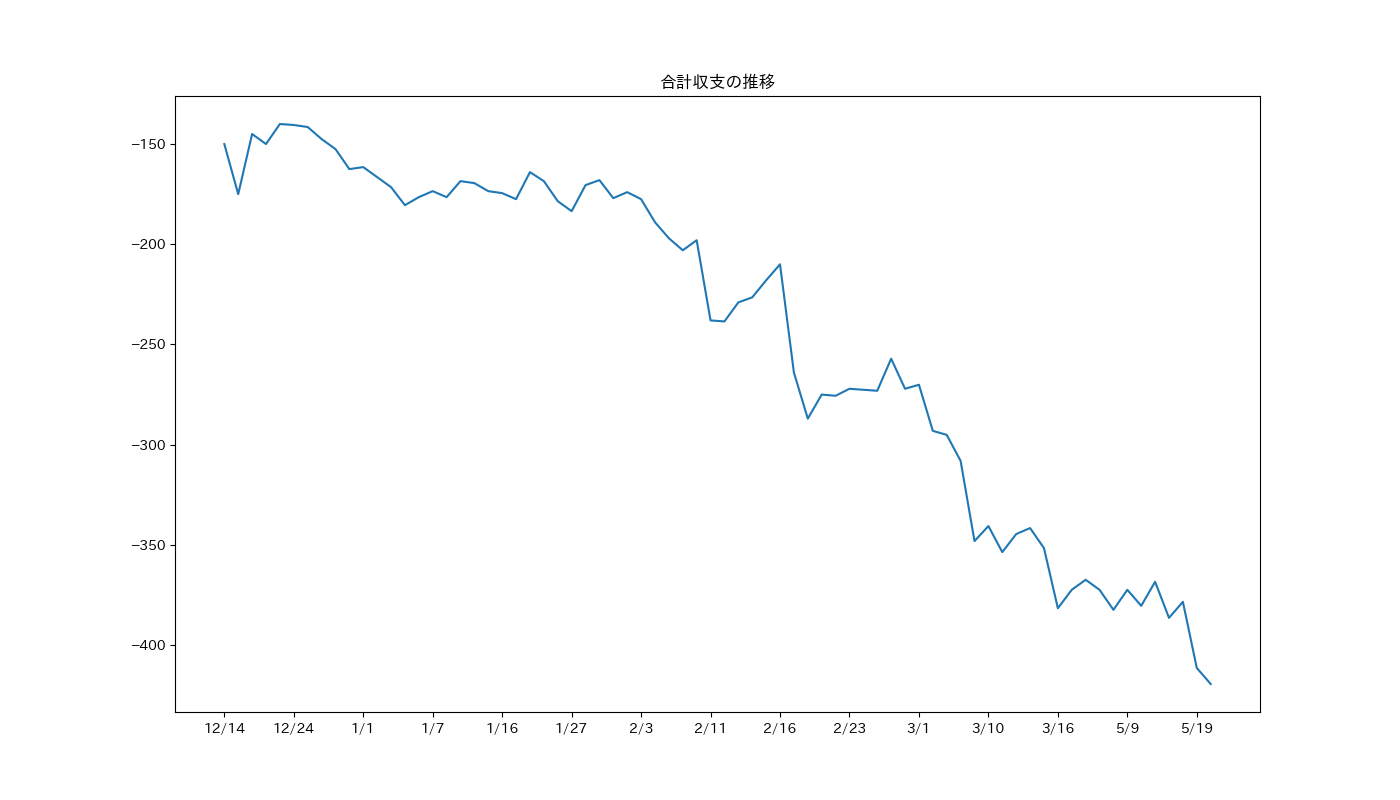
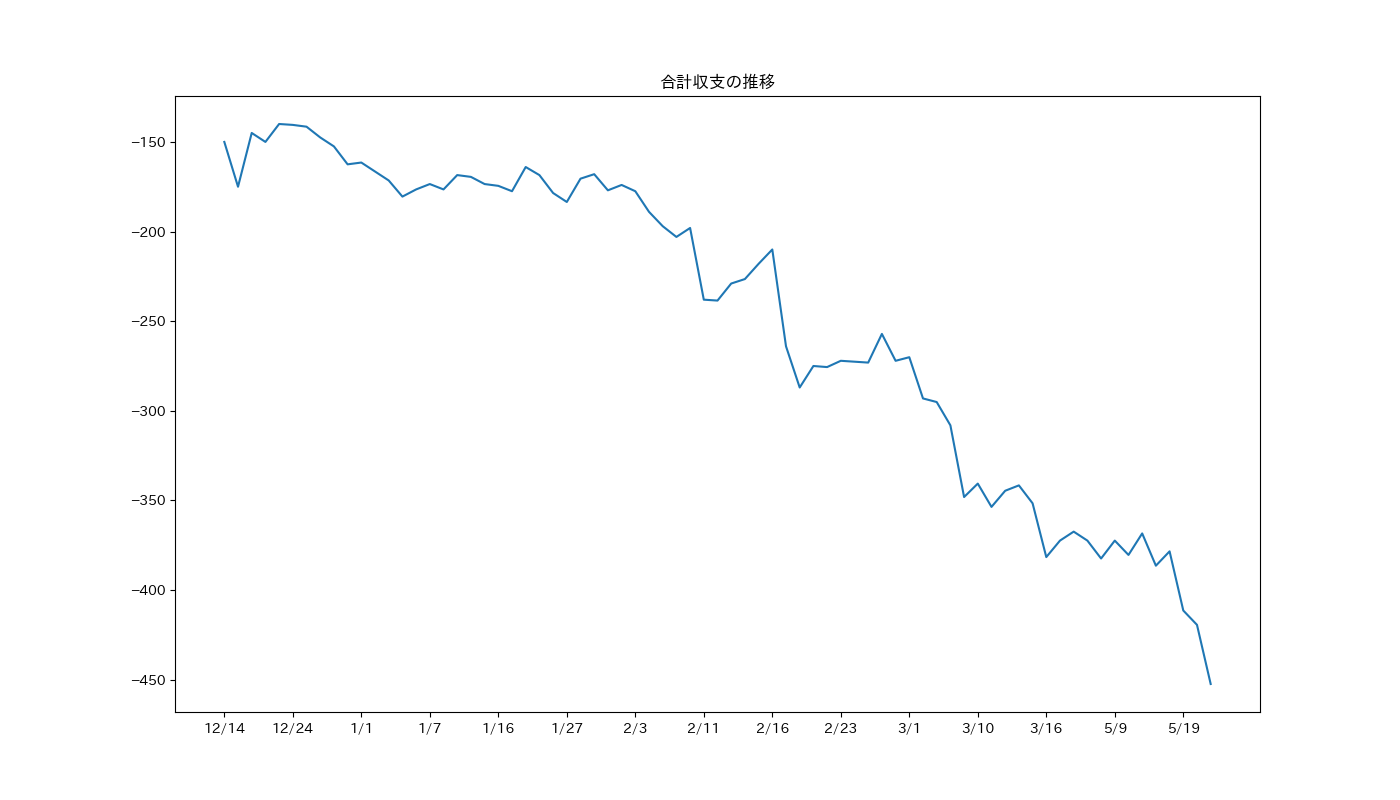
improve syukei.py and add data

diff --git a/diary.html b/diary.html
@@ -52,7 +52,7 @@
                             </p>
                         </div>
                         <div class="section">
-                            <h3>5/20</h3>
+                            <h3>5/19</h3>
                             <p>
                                 今日はとても楽しい一日でした!まずはいつものお店に行って-23kとなりました! <br>
                                 ヴァルヴレイヴとジャグラーでめちゃめちゃ負けました。僕と一緒に行っていた人はヴァルヴレイヴで100k勝ちしてました。隣に座っていたのにこんなに差があるなんて... <br>
@@ -63,10 +63,17 @@
                             </p>
                         </div>
                         <div class="section">
-                            <h3>5/21</h3>
+                            <h3>5/20</h3>
                             <p>
                                 今日は友だちと一緒に行きました。友達にジャグラーと南国育ちの楽しさを教えました。 <br>
                                 これを機にハマって一緒に打ちに行ってくれないかな...?
+                            </p>
+                        </div>
+                        <div class="section">
+                            <h3>5/22</h3>
+                            <p>
+                                もうパチンコ行きません。少なくとも来月の給料日までは行かない(行けない)です。 <br>
+                                ジャグラーにめためたにされました。悲しいです。
                             </p>
                         </div>
                     </div>
@@ -136,26 +143,26 @@
                                 早めに終わるジャグラー良いね!!
                             </p>
                         </div>
-                        <div>
+                        <div class="section">
                             <h3>3/13</h3>
                             <p>
                                 今日も低投資ですぐ帰りました～。いい感じに貯玉増えてますね～。
                             </p>
                         </div>
-                        <div>
+                        <div class="section">
                             <h3>3/15</h3>
                             <p>
                                 え～いい感じで増えてた貯玉が減りました～。悲しいです～。
                             </p>
                         </div>
-                        <div>
+                        <div class="section">
                             <h3>3/16</h3>
                             <p>
                                 もう記憶がないです。いつの間にかめっちゃ負けてました。
                                 ジャグラー恐ろしい。
                             </p>
                         </div>
-                        <div>
+                        <div class="section">
                             <h3>3/17</h3>
                             <p>
                                 新しいお店で割と勝つことができました～。まじでジャグラー増えるときは大して増えないのに減るときは大負けするのやばい。

diff --git a/days.html b/days.html
@@ -122,6 +122,17 @@
                                 <td>3k/0k</td>
                             </tr>
                         </tbody>
+                        <tbody>
+                            <tr>
+                                <td rowspan="2">5/22</td>
+                                <td>ジャグラー</td>
+                                <td>20k/0k</td>
+                            </tr>
+                            <tr>
+                                <td>南国育ち</td>
+                                <td>13k/0k</td>
+                            </tr>
+                        </tbody>
                     </table>
                     <!--2024/3-->
                     <table width="1200" border="3">

diff --git a/sum.html b/sum.html
@@ -19,8 +19,8 @@
             <div class="contents">
                 <div class="sum">
                     <h2>パチンコ・パチスロ総合収支</h2>
-                    <h1>-419.4k!!!</h1>
-                    <h3>(2024/05/21時点)</h3>
+                    <h1>-452.4k!!!</h1>
+                    <h3>(2024/05/22時点)</h3>
                     <img src="source/move_money.png" alt="総合収支の推移">
                 </div>
             </div>

diff --git a/syukei.py b/syukei.py
@@ -30,15 +30,46 @@ temp_list.append("end")
 day_list.append(temp_list)
 
 # 日付情報を削除し、機種毎収支をDataFrameで保存する
-day_list = [day[1:-1] for day in day_list]
+new_day_list = [day[1:-1] for day in day_list]
 group_list = []
-for day in day_list:
+for day in new_day_list:
     for i, value in enumerate(day):
         if(i%2 == 0):
             name = value
         else:
             pay, payback = value.replace("k", "").split("/")
             group_list.append([name, float(pay), float(payback)])
+days = pd.DataFrame(data=group_list, columns=["機種", "投資額", "回収額"])
 
-df = pd.DataFrame(data=group_list, columns=["機種", "投資額", "回収額"])
-print(df.groupby("機種").sum())
+# 機種情報を削除し、日毎収支をまとめる
+group_list = []
+for group in day_list:
+    pays = 0
+    paybacks = 0
+    for content in group:
+        if("まで" in content):
+            group_list.append([12, 14, -150])
+            break
+        
+        if(is_date(content)):
+            month, day = map(int, content.split("/"))
+            temp_list = [month, day]
+        else:
+            if("k" in content):
+                content = content.replace("k", "")
+                pay, payback = map(float, content.split("/"))
+                pays += pay
+                paybacks += payback
+        if(content == "end"):
+            temp_list.append(paybacks - pays)
+            group_list.append(temp_list)
+data = []
+# 月毎に集計する
+for group in group_list:
+    data.append([group[0], group[2]])
+month = pd.DataFrame(data=data, columns=["月", "収支"])
+
+print("機種ごとに集計\n")
+print(days.groupby("機種").sum())
+print("\n月ごとに集計\n")
+print(month.groupby("月").sum())

diff --git a/graph.py b/graph.py
@@ -54,6 +54,7 @@ for group in day_list:
             group_list.append(temp_list)
 
 # 日付と日毎収支をグラフにする
+# 2023/12が最初で、2024/1, 2024/2, ...の順になるように順位付けを変更する
 month_order = dict(zip(range(1, 13), [i%12 + 1 for i in range(1, 13)]))
 group_list.sort(key=lambda x:(month_order[x[0]], x[1]))
 group_list.pop(0)

diff --git a/format.py b/format.py
@@ -5,6 +5,6 @@ import datetime
 
 # 現在の収支を調べる
 soup = BeautifulSoup(open("diary.html", encoding="utf-8"), "html.parser")
-div_list = soup.find_all("div")
-for div in div_list:
-    print(div)
+div_list = soup.find("div", class_="diary").contents
+div_list = div_list[1::2]
+print(div_list[0].contents[3::2])
